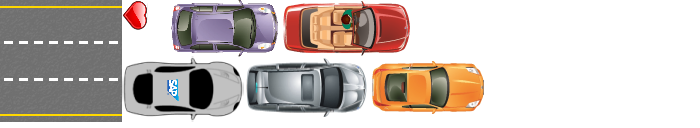
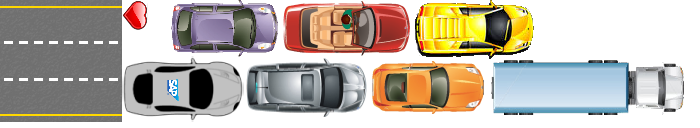
add new cars

Changed region(s): [[0.57, 0.0, 0.99, 0.9062]]

diff --git a/mobile/src/main/java/com/sap/dkom/fiorirace/EnemyCar.java b/mobile/src/main/java/com/sap/dkom/fiorirace/EnemyCar.java
@@ -17,9 +17,9 @@ public class EnemyCar extends Actor {
     public EnemyCar(float x, float y, float speed) {
         setWidth(160);
         setHeight(85);
-        setPosition(x, y - getHeight() / 2);
+
         region = Assets.whitecar;
-        int rnd = MathUtils.random(0, 3);
+        int rnd = MathUtils.random(0, 5);
         switch (rnd){
             case 0:
                 region = Assets.convertable;
@@ -33,8 +33,16 @@ public class EnemyCar extends Actor {
             case 3:
                 region = Assets.orangecar;
                 break;
+            case 4:
+                region = Assets.yellowcar;
+                break;
+            case 5:
+                region = Assets.truck;
+                setWidth(243);
+                setHeight(75);
+                break;
         }
-
+        setPosition(x, y - getHeight() / 2);
         addAction(Actions.moveTo(-getWidth(), getY(), speed));
     }
 

diff --git a/mobile/src/main/java/com/sap/dkom/fiorirace/Assets.java b/mobile/src/main/java/com/sap/dkom/fiorirace/Assets.java
@@ -13,6 +13,8 @@ public class Assets {
     public static TextureRegion convertable;
     public static TextureRegion purplecar;
     public static TextureRegion orangecar;
+    public static TextureRegion yellowcar;
+    public static TextureRegion truck;
 
     public static void load() {
         atlas = new TextureAtlas(Gdx.files.internal("images.atlas"));
@@ -23,6 +25,8 @@ public class Assets {
         convertable = atlas.findRegion("convertable");
         purplecar = atlas.findRegion("purplecar");
         orangecar = atlas.findRegion("orangecar");
+        yellowcar = atlas.findRegion("yellowcar");
+        truck = atlas.findRegion("truck");
     }
 
     public static void dispose() {
